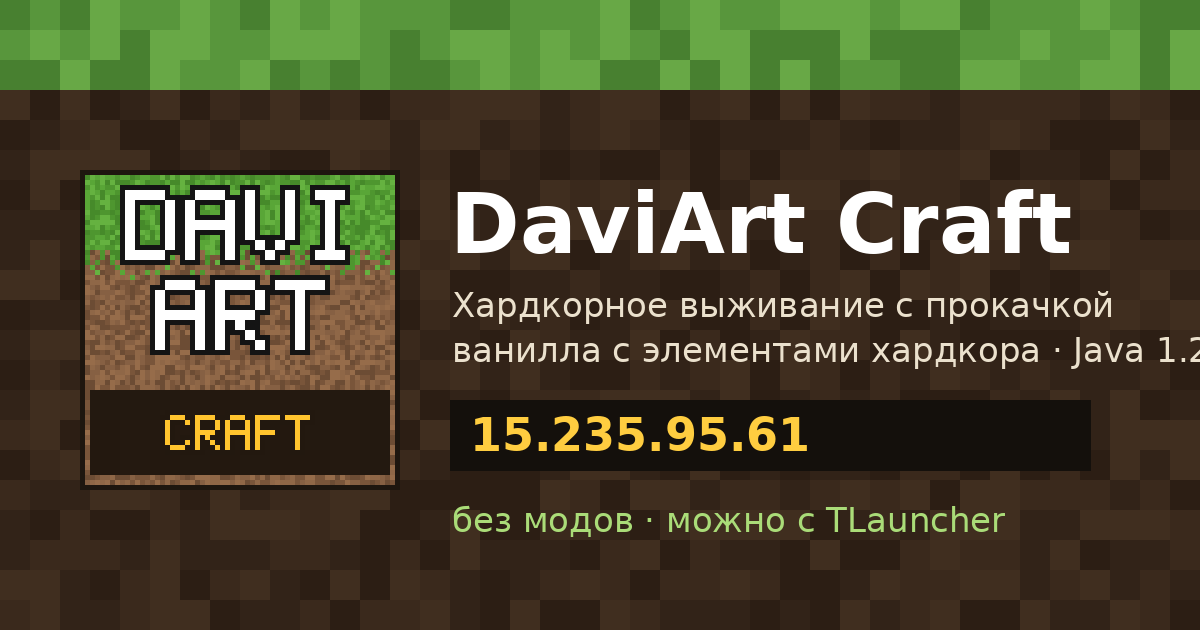
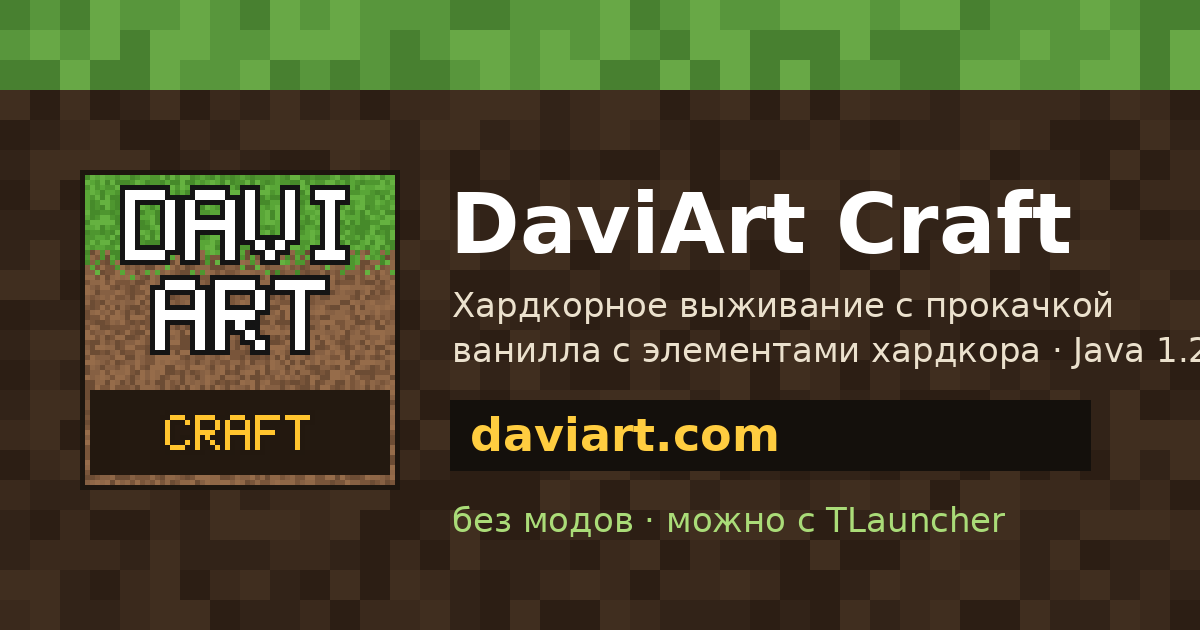
Адрес сервера daviart.com, карта mc.daviart.com:8100

Changed region(s): [[0.37, 0.6635, 0.6783, 0.7238]]

diff --git a/index.html b/index.html
@@ -4,7 +4,7 @@
 <meta charset="utf-8">
 <meta name="viewport" content="width=device-width, initial-scale=1, viewport-fit=cover">
 <title>DaviArt Craft — хардкорное выживание с прокачкой · daviart.com</title>
-<meta name="description" content="DaviArt Craft — Minecraft-сервер: хардкорное выживание с прокачкой, ванильное выживание с элементами хардкора. Java 1.21.10, без модов, можно с TLauncher. Прокачка 38 навыков, 4 мира, приваты компасом. Адрес 15.235.95.61">
+<meta name="description" content="DaviArt Craft — Minecraft-сервер: хардкорное выживание с прокачкой, ванильное выживание с элементами хардкора. Java 1.21.10, без модов, можно с TLauncher. Прокачка 38 навыков, 4 мира, приваты компасом. Адрес daviart.com">
 <meta name="theme-color" content="#3d8a1e" media="(prefers-color-scheme: light)">
 <meta name="theme-color" content="#14110e" media="(prefers-color-scheme: dark)">
 <link rel="canonical" href="https://daviart.com/">
@@ -16,7 +16,7 @@
 <meta property="og:locale" content="ru_RU">
 <meta property="og:url" content="https://daviart.com/">
 <meta property="og:title" content="DaviArt Craft — хардкорное выживание с прокачкой">
-<meta property="og:description" content="Выживание почти ваниль с дополнениями. Java 1.21.10, без модов, можно с TLauncher. Адрес: 15.235.95.61">
+<meta property="og:description" content="Выживание почти ваниль с дополнениями. Java 1.21.10, без модов, можно с TLauncher. Адрес: daviart.com">
 <meta property="og:image" content="https://daviart.com/img/og.png">
 <meta property="og:image:width" content="1200">
 <meta property="og:image:height" content="630">
@@ -41,8 +41,8 @@
 
     <div class="ip">
       <div class="ip-box">
-        <div><span class="lbl">Адрес сервера</span><span class="addr" id="addr">15.235.95.61</span></div>
-        <button class="btn gold" type="button" data-copy="15.235.95.61" data-msg="Адрес скопирован">Копировать</button>
+        <div><span class="lbl">Адрес сервера</span><span class="addr" id="addr">daviart.com</span></div>
+        <button class="btn gold" type="button" data-copy="daviart.com" data-msg="Адрес скопирован">Копировать</button>
       </div>
       <div class="status" id="status" aria-live="polite">
         <div class="line"><span class="dot"></span><span id="st-text">Проверяю статус…</span></div>
@@ -53,7 +53,7 @@
     <div class="actions">
       <a class="btn green" href="#join">▶ Как зайти</a>
       <a class="btn blue" href="https://discord.gg/sTgZM8Kh" target="_blank" rel="noopener">Discord</a>
-      <a class="btn" href="http://15.235.95.61:8100" target="_blank" rel="noopener">🗺 Карта мира</a>
+      <a class="btn" href="http://mc.daviart.com:8100" target="_blank" rel="noopener">🗺 Карта мира</a>
     </div>
   </div>
 </header>
@@ -131,7 +131,7 @@
     <div><img src="img/favicon-32.png" alt="">© DaviArt Craft · сайт обновлён <span id="updated">2026-10-12</span></div>
     <nav aria-label="Ссылки">
       <a href="https://discord.gg/sTgZM8Kh" target="_blank" rel="noopener">Discord</a>
-      <a href="http://15.235.95.61:8100" target="_blank" rel="noopener">Карта мира</a>
+      <a href="http://mc.daviart.com:8100" target="_blank" rel="noopener">Карта мира</a>
       <a href="recover.html">Забыл пароль</a>
       <a href="partners.html">Партнёрам и стримерам</a>
       <a href="#rules">Правила</a>

diff --git a/data.js b/data.js
@@ -8,10 +8,10 @@
 window.SITE = {
   updated: "2026-10-12",
   name: "DaviArt Craft",
-  address: "15.235.95.61",
+  address: "daviart.com",
   version: "1.21.10",
   discord: "https://discord.gg/sTgZM8Kh",
-  map: "http://15.235.95.61:8100",
+  map: "http://mc.daviart.com:8100",
   statusApi: "https://api.mcsrvstat.us/3/15.235.95.61",
   restart: "каждый день в 10:00 UTC (13:00 МСК), с предупреждением за 10, 5 и 1 минуту",
 };
@@ -21,7 +21,7 @@ window.JOIN = [
   { t: "Запусти Minecraft Java 1.21.10",
     d: "Обычный клиент, без модов. Подойдёт TLauncher или другая пиратка. Другие версии тоже пустит (ViaVersion), но лучше 1.21.10." },
   { t: "Добавь сервер",
-    d: "«Сетевая игра» → «Добавить сервер» → адрес <b>15.235.95.61</b> → «Готово» → зайди." },
+    d: "«Сетевая игра» → «Добавить сервер» → адрес <b>daviart.com</b> → «Готово» → зайди." },
   { t: "Первый раз — регистрация",
     d: "Напиши в чат `/register пароль` — <b>один раз</b>, любой пароль от 4 символов. На регистрацию и вход есть <b>5 минут</b>. Пока не вошёл, нельзя ходить, писать и пользоваться командами — под твоим ником никто не зайдёт." },
   { t: "Дальше — вход",
@@ -324,6 +324,6 @@ window.FAQ = [
   { q: "Меня загриферили / обокрали", a: "Если это было в твоём привате — напиши в <a href=\"https://discord.gg/sTgZM8Kh\" target=\"_blank\" rel=\"noopener\">Discord</a>: ник, мир, координаты, примерное время. Админ видит, кто ломал блоки, и может откатить. Вне привата вещи не защищены, а в Пустошах — анархия." },
   { q: "Сколько аккаунтов можно завести?", a: "До 10 с одного интернет-подключения." },
   { q: "Есть стартовый набор?", a: "Нет — все начинают с пустыми руками в Святых землях." },
-  { q: "Где посмотреть карту?", a: "Карта мира в браузере: <a href=\"http://15.235.95.61:8100\" target=\"_blank\" rel=\"noopener\">15.235.95.61:8100</a>." },
+  { q: "Где посмотреть карту?", a: "Карта мира в браузере: <a href=\"http://mc.daviart.com:8100\" target=\"_blank\" rel=\"noopener\">mc.daviart.com:8100</a>." },
   { q: "Сервер лагает / меня выкинуло", a: "Каждый день в 10:00 UTC (13:00 МСК) — плановый перезапуск, о нём предупреждают. После 30 минут бездействия вне лобби сервер выкидывает. Остальное — пиши в Discord." },
 ];

diff --git a/partners.html b/partners.html
@@ -63,7 +63,7 @@
   <section id="how">
     <h2>Как стать партнёром</h2>
     <ol class="steps">
-      <li class="card"><div><h3>Канал и контент</h3><p>У тебя публичный канал (Twitch, YouTube, Kick, VK Видео, TikTok и т.п.), ты играешь на DaviArt Craft и выпускаешь контент о сервере — <b>хотя бы раз в месяц</b>, с адресом сервера <code>15.235.95.61</code> и сайтом daviart.com в описании.</p></div></li>
+      <li class="card"><div><h3>Канал и контент</h3><p>У тебя публичный канал (Twitch, YouTube, Kick, VK Видео, TikTok и т.п.), ты играешь на DaviArt Craft и выпускаешь контент о сервере — <b>хотя бы раз в месяц</b>, с адресом сервера <code>daviart.com</code> в описании.</p></div></li>
       <li class="card"><div><h3>Заявка</h3><p>Подай заявку в <a href="https://discord.gg/sTgZM8Kh" target="_blank" rel="noopener">Discord</a> или на почту dav.art.iva@gmail.com. Админ одобряет и выдаёт <b>личный код</b> и тег «Партнёр».</p></div></li>
       <li class="card"><div><h3>Зови зрителей</h3><p>Помогай им освоиться и прокачаться. Когда появятся кланы — создай свой клан.</p></div></li>
     </ol>

diff --git a/404.html b/404.html
@@ -19,7 +19,7 @@
 <main class="wrap" style="max-width:640px;padding:48px 16px;text-align:center">
   <p style="font:700 4rem var(--pixel);margin:0;color:var(--soft)">404</p>
   <h2 style="justify-content:center">Такой страницы нет</h2>
-  <p class="lead" style="margin:12px auto 24px">Здесь теперь сайт Minecraft-сервера DaviArt Craft. Адрес для игры — <code>15.235.95.61</code>.</p>
+  <p class="lead" style="margin:12px auto 24px">Здесь теперь сайт Minecraft-сервера DaviArt Craft. Адрес для игры — <code>daviart.com</code>.</p>
   <a class="btn green" href="/">На главную</a>
 </main>
 </body>
